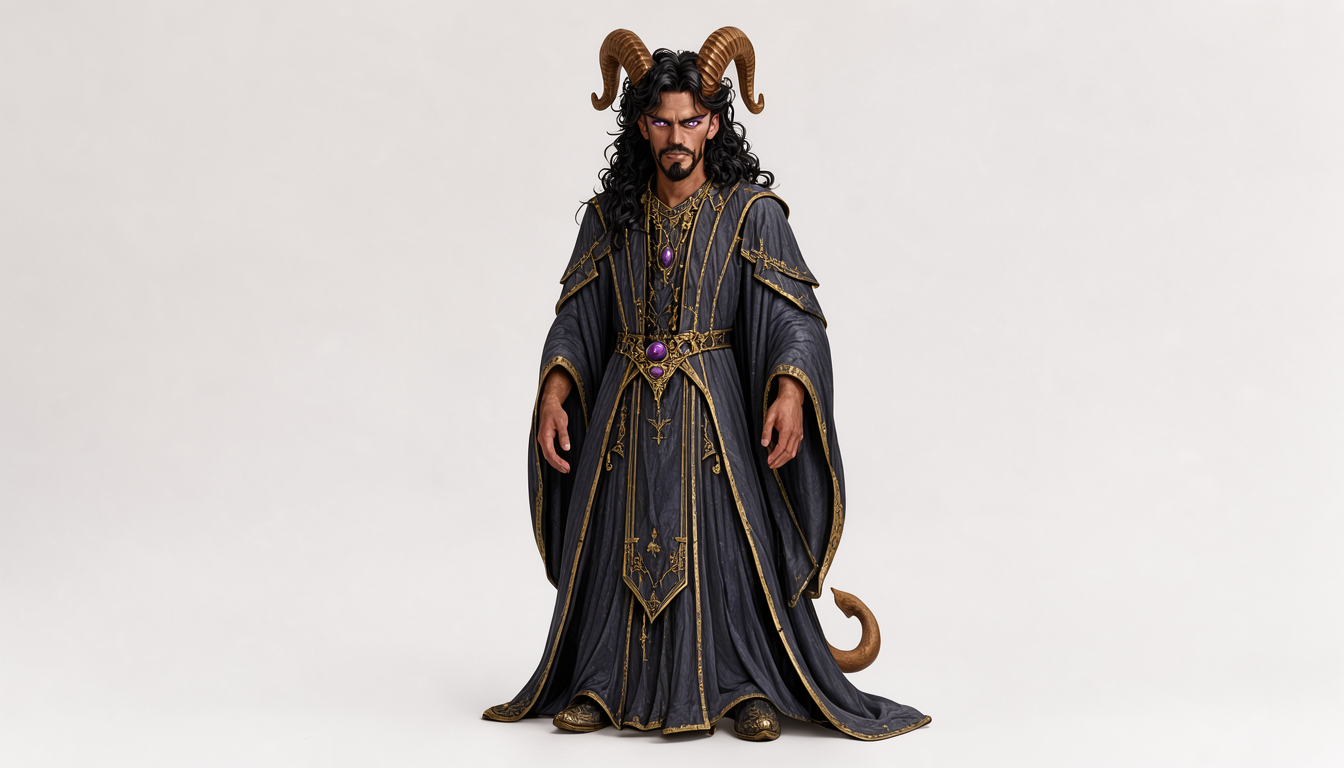
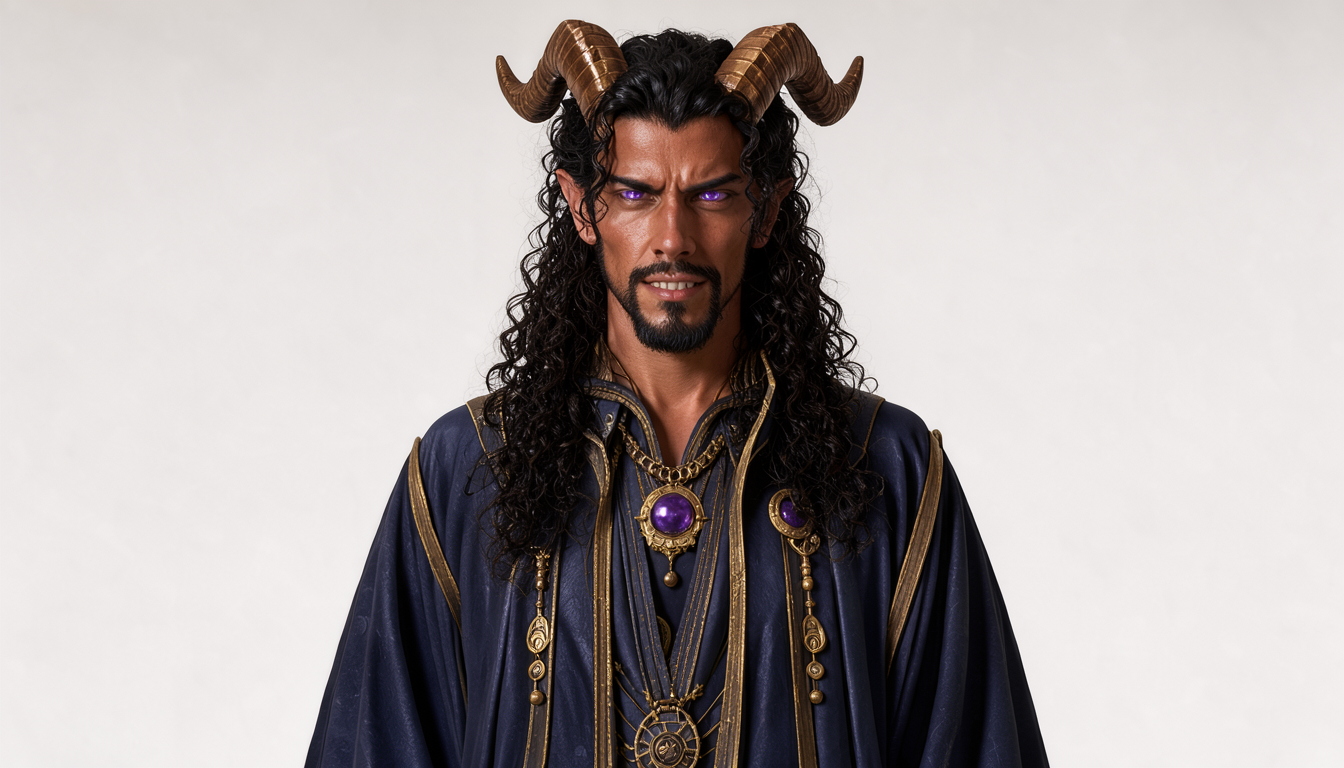
sheet-test: Keechwah lab batch 28 — tailless merge, versioned snapshot + spot-check

Changed region(s): [[0.2188, 0.0, 0.7812, 1.0], [0.9062, 0.0, 1.0, 0.0312]]

diff --git a/tests/test_keechwahlab.py b/tests/test_keechwahlab.py
@@ -34,6 +34,12 @@ BATCH26_SEEDS = [1292086694, 108847172, 2043092559, 693522991, 1510188667, 76183
 BATCH27_KEYS = [f"keechwah_r{i:02d}" for i in range(1, 11)]
 BATCH27_SEEDS = [903521648, 918981674, 1737432989, 1448841140, 1381742099, 56502011,
                  811032469, 28178984, 1563704135, 1052135545]
+# Batch 28 ladder: 10-seed check on the tailless block (harvest script
+# C:/Users/Andrew/AppData/Local/Temp/harvest27.py, master seed 20261117,
+# verified disjoint from all 234 previously used seeds)
+BATCH28_KEYS = [f"keechwah_r{i:02d}" for i in range(1, 11)]
+BATCH28_SEEDS = [625546482, 104806782, 1006179719, 868871769, 923435658, 1475067252,
+                 1291660765, 929854378, 1480473186, 1997314573]
 # Batch 3 ladder: 20-seed survey on the batch-2 block (master list seed
 # 20261104, verified disjoint from all previously used seeds)
 BATCH3_KEYS = [f"keechwah_r{i:02d}" for i in range(1, 21)]
@@ -79,6 +85,21 @@ BATCH27_BLOCK = (
     "ornate gold jewelry including a purple orb pendant, and the spade tip of his thick "
     "bronze-tan tail peeks out from beneath the trailing hem of his robe on one side."
 )
+# Batch 28: tailless — batch-27 block verbatim minus the tail clause. The tail
+# is the single most failure-prone element (hook-reads, escapes); the bible
+# chunk carries no tail and no NEVER rule requires one.
+BATCH28_BLOCK = (
+    "An adult male warlock with an athletic build, exactly two normal arms, and no wings. "
+    "He has warm bronze-tan human skin with a faint red cast, sharp masculine facial "
+    "features with a stern, knowing expression, and sharply pointed canine teeth. His "
+    "narrow, almond-shaped eyes rest under heavy eyelids, featuring solid glowing purple "
+    "irises that fill the entire visible eye with no white sclera or pupil. Long, thick, "
+    "curly black hair frames his face alongside a neatly trimmed dark black goatee, and "
+    "his ears come to slight points. Rising from the crown of his skull are two large "
+    "curved bronze-brown horns with a ridged texture, their bases buried deep within his "
+    "thick hair line. He wears elegant, flowing dark blue and gold wizard robes with "
+    "ornate gold jewelry including a purple orb pendant."
+)
 
 
 class TestKeechwahLabDescriptions(unittest.TestCase):
@@ -90,8 +111,8 @@ class TestKeechwahLabDescriptions(unittest.TestCase):
 
     def test_baseline_block_is_arm_b_verbatim(self):
         text, sources = self.load_block()
-        self.assertEqual(text, BATCH27_BLOCK, "batch-27 block must be the merge verbatim")
-        self.assertIn("ridged texture", text)
+        self.assertEqual(text, BATCH28_BLOCK, "batch-28 block must be the tailless merge verbatim")
+        self.assertNotIn("tail", text)
         self.assertIn("no wings", text)
         self.assertIn("character-bible/Sheets/Keechwah.pdf", sources)
         self.assertIn(KEECHWAH_URL, sources)
@@ -106,13 +127,13 @@ class TestKeechwahLabPrompts(unittest.TestCase):
 
     def test_lab_prompts_schema(self):
         prompts = self.load_prompts()
-        self.assertEqual(list(prompts), BATCH27_KEYS, "lab keys must be the batch-27 ladder in order")
+        self.assertEqual(list(prompts), BATCH28_KEYS, "lab keys must be the batch-28 ladder in order")
         text, _ = TestKeechwahLabDescriptions().load_block()
-        for i, key in enumerate(BATCH27_KEYS):
+        for i, key in enumerate(BATCH28_KEYS):
             entry = prompts[key]
             self.assertEqual(list(entry.keys()), PROMPT_KEYS, f"{key} key mismatch")
             self.assertEqual(entry["arm"], "C")
-            self.assertEqual(entry["seed"], BATCH27_SEEDS[i], f"{key} seed mismatch")
+            self.assertEqual(entry["seed"], BATCH28_SEEDS[i], f"{key} seed mismatch")
             self.assertEqual(entry["frame"], FRAME_C)
             self.assertEqual(entry["prompt"], f"{FRAME_C} {ADDENDUM} {text}", f"{key} not exact composition")
             self.assertIn(entry["output"], (None, f"img/{key}.png"))
@@ -123,9 +144,9 @@ class TestKeechwahLabPrompts(unittest.TestCase):
 
         stems = [os.path.splitext(os.path.basename(p))[0] for p in _glob.glob("workflows/keechwahlab_*.json")]
         found = {s.removeprefix("keechwahlab_") for s in stems}
-        self.assertEqual(found, set(BATCH27_KEYS), f"lab workflow set mismatch: {found}")
+        self.assertEqual(found, set(BATCH28_KEYS), f"lab workflow set mismatch: {found}")
         prompts = self.load_prompts()
-        for key in BATCH27_KEYS:
+        for key in BATCH28_KEYS:
             with open(f"workflows/keechwahlab_{key}.json", encoding="utf-8") as f:
                 g = json.load(f)
             seeds = [n["inputs"][k] for n in g.values() for k in ("seed", "noise_seed") if k in n.get("inputs", {})]

diff --git a/character-bible/sheet-test/keechwah-lab/README.md b/character-bible/sheet-test/keechwah-lab/README.md
@@ -42,6 +42,8 @@ overwrite — every generation snapshots to `batches/batch<N>/` with its
 | batch25 | User full rewrite (sentence prose, no species word, smooth horns, hem-hidden spade tail) on the k-ladder | same k01-k04 |
 | batch26 | 25-seed survey on the user-rewrite block (sentence prose, no species word, smooth horns, hem-hidden spade tail) | keechwah_r01-r25 |
 | batch27 | Merge (skin bronze-tan per user, horns large curved ridged per user): batch-25 prose + glowing purple eyes, pointed ears, stern knowing expression, orb pendant, no-wings restored + 10-seed check | keechwah_r01-r10 (new ladder) |
+| batch28 | Tailless: batch-27 block verbatim minus the tail clause (bible chunk carries no tail; tail was the top failure source) + 10-seed check | keechwah_r01-r10 (new ladder) |
+| batch28 spot-check (agent 2026-11-03, r01/r05/r10 only) | No invented tails on any of the three — the model does NOT add one unprompted. BUT 2/3 framing failures: r05 and r10 render as cropped busts, not full-body (frame clause ignored — seed lottery, same class as batch-19 crops). r01 is the prize: full body, closed robe, rooted ridged horns, orb pendant, stern grin, sleeveless-with-bracers arm drift. Full human read of all ten still wanted. | - |
 | batch27 spot-check (agent 2026-11-03, r01/r05/r10 only) | Merge grafts cleanly: ridged curved horns rooted in hair on all three (r05 ram-swept like the approved ref), glow eyes lidded with no bug-eyes, orb pendant renders at chest, robes closed 3/3, no wings. Tail: hem-peek honored on r01 (small peeks) and r10 (left peek); r05 escapes the hem and hooks horn-like beside the robe — the known seed-lottery failure persists. Full human read of all ten still wanted. | - |
 | batch25 verdict (human+agent 2026-11-02) | User rewrite holds together - dropping 'tiefling' did NOT break coherence (all four read tiefling warlock). k04 best (face, flat purple eyes, closed robe, rooted horns). k02/k03 validate the hem-peek: spade tip under the hem reads correctly there. k01/k04 tails escaped the hem and hook horn-like beside the robe - concealment works only when honored. Smooth horns unobjectionable throughout. | - |
 | batch23 verdict (agent review 2026-11-02) | MIXED: tails read correctly on r02/r04/r06/r07/r08 (hanging thin terminators) but still hook horn-like on r01/r05/r09 and read as a stray limb on r03 - skin-match did not fix the read, so GEOMETRY (upward hook) dominates material. Robes open again on r03 (legs), partial chest V on r04/r05, full-open r10 - the batch-21 'wizard noun carries closure' conclusion was premature (4 lucky seeds). Keepers: r02/r06/r08. r07 has prominent pointed elf ears (matches gallery ref, DDB-silent). | - |

diff --git a/character-bible/sheet-test/keechwah-lab/descriptions.md b/character-bible/sheet-test/keechwah-lab/descriptions.md
@@ -8,7 +8,7 @@ hooves, duplicate Keechwahs.
 
 ## Keechwah (keechwah)
 
-An adult male warlock with an athletic build, exactly two normal arms, and no wings. He has warm bronze-tan human skin with a faint red cast, sharp masculine facial features with a stern, knowing expression, and sharply pointed canine teeth. His narrow, almond-shaped eyes rest under heavy eyelids, featuring solid glowing purple irises that fill the entire visible eye with no white sclera or pupil. Long, thick, curly black hair frames his face alongside a neatly trimmed dark black goatee, and his ears come to slight points. Rising from the crown of his skull are two large curved bronze-brown horns with a ridged texture, their bases buried deep within his thick hair line. He wears elegant, flowing dark blue and gold wizard robes with ornate gold jewelry including a purple orb pendant, and the spade tip of his thick bronze-tan tail peeks out from beneath the trailing hem of his robe on one side.
+An adult male warlock with an athletic build, exactly two normal arms, and no wings. He has warm bronze-tan human skin with a faint red cast, sharp masculine facial features with a stern, knowing expression, and sharply pointed canine teeth. His narrow, almond-shaped eyes rest under heavy eyelids, featuring solid glowing purple irises that fill the entire visible eye with no white sclera or pupil. Long, thick, curly black hair frames his face alongside a neatly trimmed dark black goatee, and his ears come to slight points. Rising from the crown of his skull are two large curved bronze-brown horns with a ridged texture, their bases buried deep within his thick hair line. He wears elegant, flowing dark blue and gold wizard robes with ornate gold jewelry including a purple orb pendant.
 
 Sources:
 - character-bible/Sheets/Keechwah.pdf

diff --git a/character-bible/sheet-test/keechwah-lab/batches/batch28/descriptions.md b/character-bible/sheet-test/keechwah-lab/batches/batch28/descriptions.md
@@ -1,0 +1,16 @@
+# Keechwah Lab — baseline block for seed-robustness testing
+
+Single block source for `keechwah-lab`. Batch 1 is the Arm B Keechwah
+block verbatim (the starting point, as the Shade lab began from its
+Arm B block). Known failure modes from the bible NEVER list to watch
+for: female render, wings (Verruth confusion — Keechwah has NONE),
+hooves, duplicate Keechwahs.
+
+## Keechwah (keechwah)
+
+An adult male warlock with an athletic build, exactly two normal arms, and no wings. He has warm bronze-tan human skin with a faint red cast, sharp masculine facial features with a stern, knowing expression, and sharply pointed canine teeth. His narrow, almond-shaped eyes rest under heavy eyelids, featuring solid glowing purple irises that fill the entire visible eye with no white sclera or pupil. Long, thick, curly black hair frames his face alongside a neatly trimmed dark black goatee, and his ears come to slight points. Rising from the crown of his skull are two large curved bronze-brown horns with a ridged texture, their bases buried deep within his thick hair line. He wears elegant, flowing dark blue and gold wizard robes with ornate gold jewelry including a purple orb pendant.
+
+Sources:
+- character-bible/Sheets/Keechwah.pdf
+- https://www.dndbeyond.com/species/7-tiefling
+- bible.md locked chunks (main checkout)
